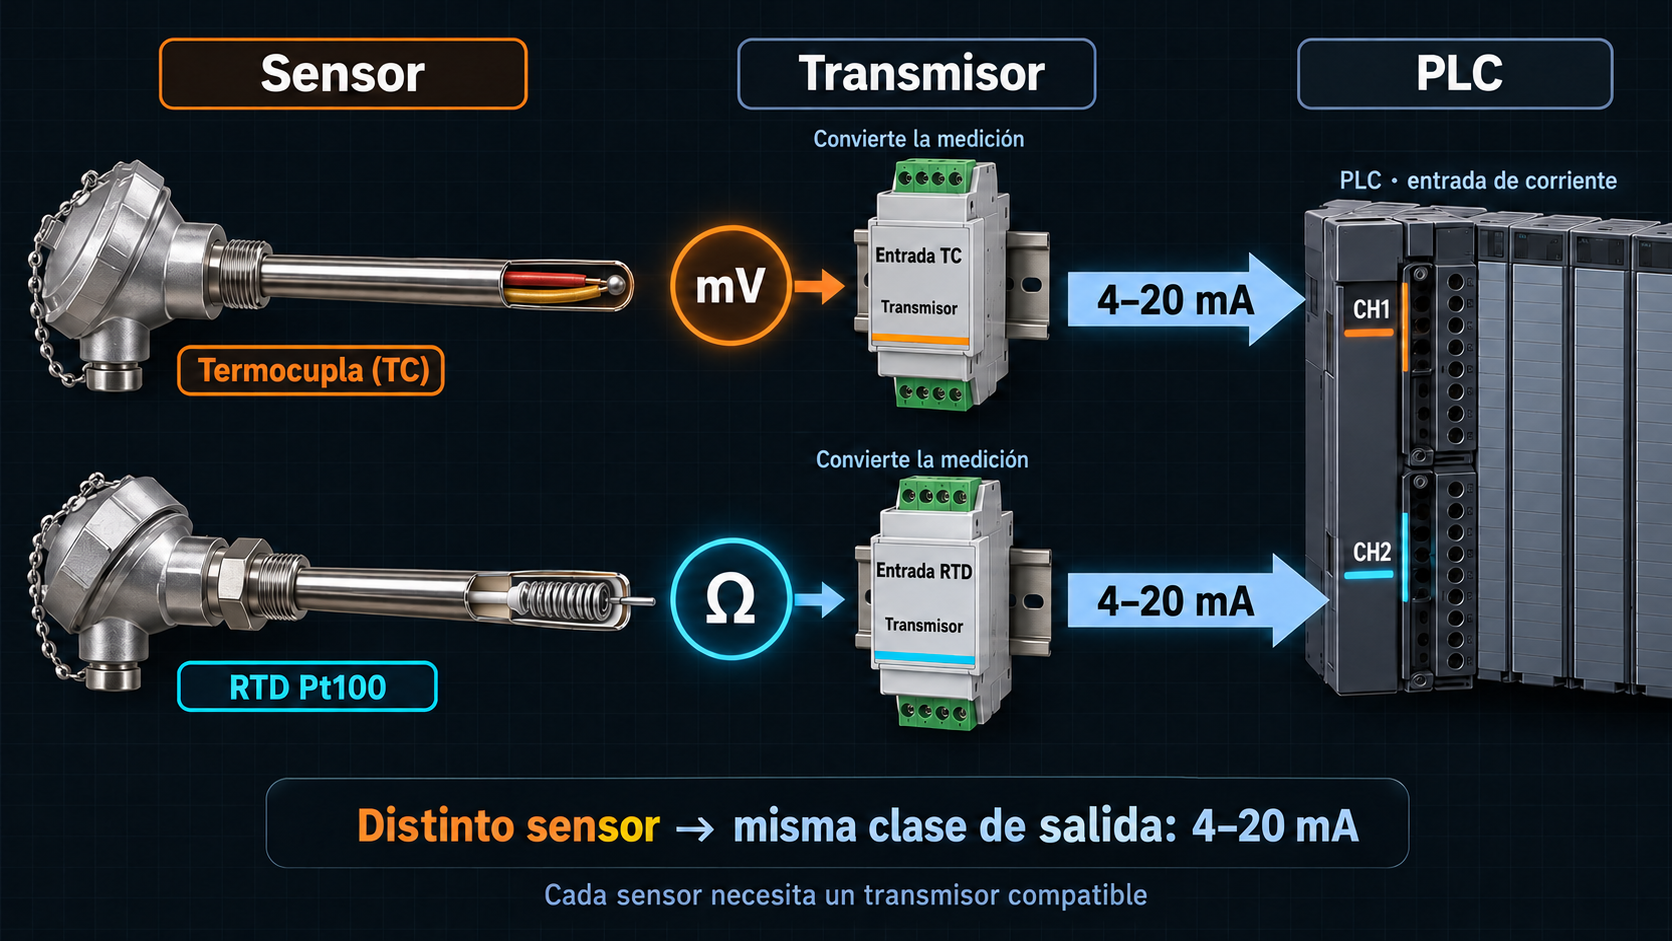
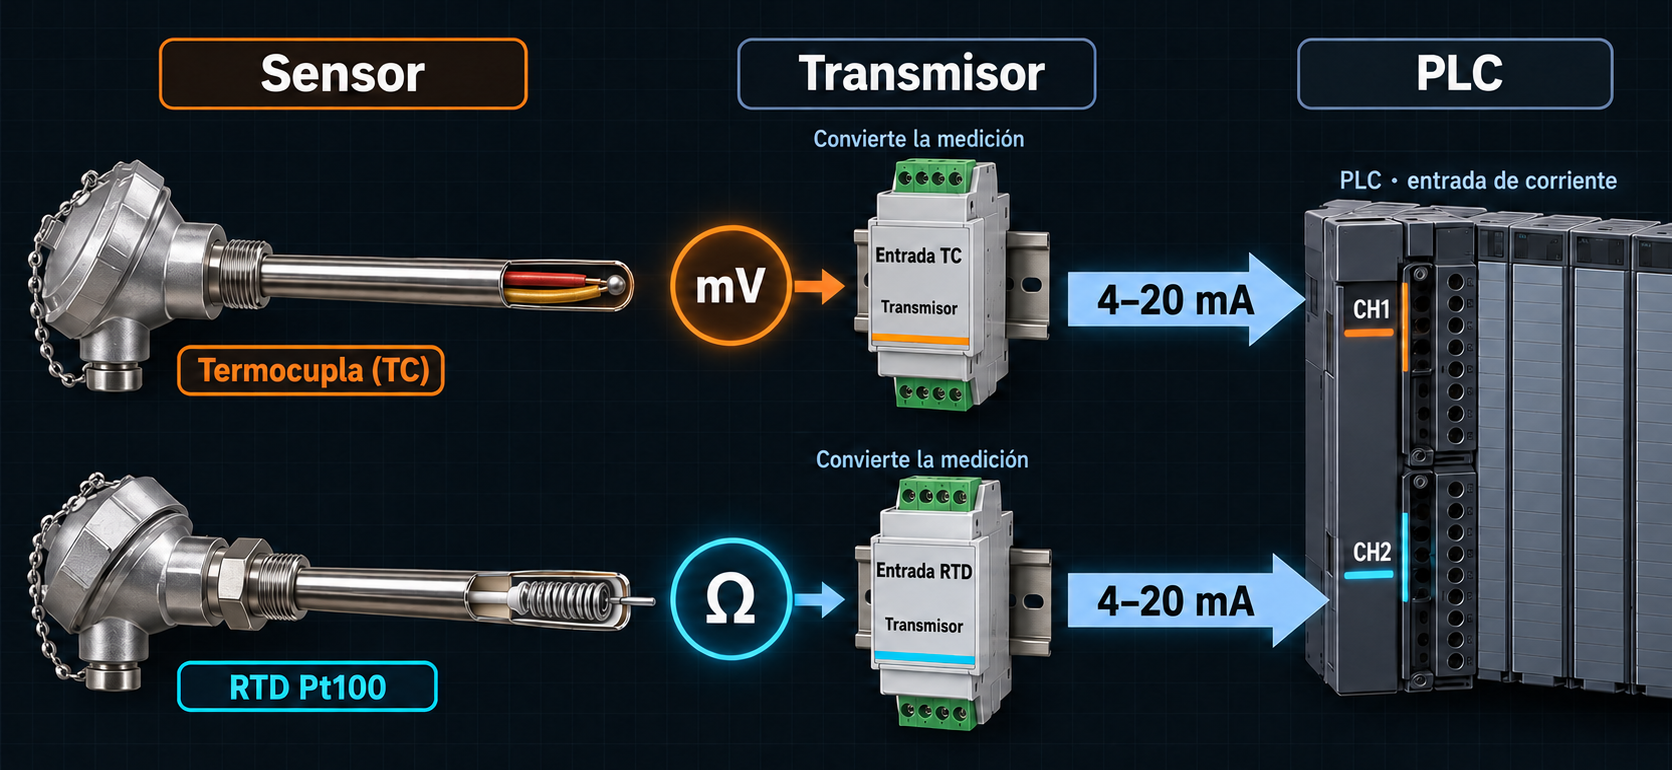
Bloque 5: se recorta el recuadro inferior de la imagen y se agranda

diff --git a/index.html b/index.html
@@ -1593,7 +1593,7 @@ details.tbl td:nth-child(3){color:var(--acc);font-weight:600}
     </div>
     <p class="lead rv">Dos ejemplos: señales distintas que un transmisor compatible convierte en 4–20 mA.</p>
     <div id="plc-real">
-      <figure class="fig rv plc-real-image"><img src="img/del-sensor-al-plc.png" alt="Termocupla y Pt100: cada sensor entrega su señal primaria a un transmisor compatible y llega a un canal independiente del PLC con 4–20 mA." width="1672" height="941"></figure>
+      <figure class="fig rv plc-real-image"><img src="img/del-sensor-al-plc.png?v=2" alt="Termocupla y Pt100: cada sensor entrega su señal primaria a un transmisor compatible y llega a un canal independiente del PLC con 4–20 mA." width="1672" height="770"></figure>
     </div>
     <p class="big-line rv" style="--d:.16s">Desde el lazo de 4–20 mA <span class="acc">no puede identificarse el sensor</span>.</p>
 
@@ -1605,7 +1605,7 @@ details.tbl td:nth-child(3){color:var(--acc);font-weight:600}
 #b4-ir .irp-photo{display:flex;justify-content:center}
 #b4-ir .irp-photo img{width:auto;max-width:100%;max-height:calc(100svh - 308px)}
 #b5 .plc-real-image{display:flex;justify-content:center}
-#b5 .plc-real-image img{width:auto;max-width:100%;max-height:calc(100svh - 250px)}
+#b5 .plc-real-image img{width:auto;max-width:100%;max-height:calc(100svh - 230px)}
 #b5-res h2{font-size:clamp(30px,min(3.4vw,6vh),70px)}
 #b5-res .sig-table{width:100%;border-collapse:separate;border-spacing:0;margin-top:clamp(10px,2vh,22px);font-size:var(--fs-body);background:var(--surface);border:1px solid var(--line-2);border-radius:12px;overflow:hidden}
 #b5-res .sig-table caption{position:absolute;width:1px;height:1px;overflow:hidden;clip:rect(0 0 0 0)}
@@ -1630,7 +1630,7 @@ details.tbl td:nth-child(3){color:var(--acc);font-weight:600}
 #b2-2 .analogy{margin-bottom:6px;font-size:var(--fs-body)}
 #b2-aplicaciones .app-gallery{margin-top:10px}
 #b2-aplicaciones .app-simple-strip{margin-top:6px}
-#b5 .plc-real-image img{max-height:62svh}
+#b5 .plc-real-image img{max-height:66svh}
 #b4-ir .irp-photo img{max-height:57svh}
 #b3-3 .hw-photo img{max-height:50vh}
 #b2-2 .cj-ctl{padding:14px 18px}
